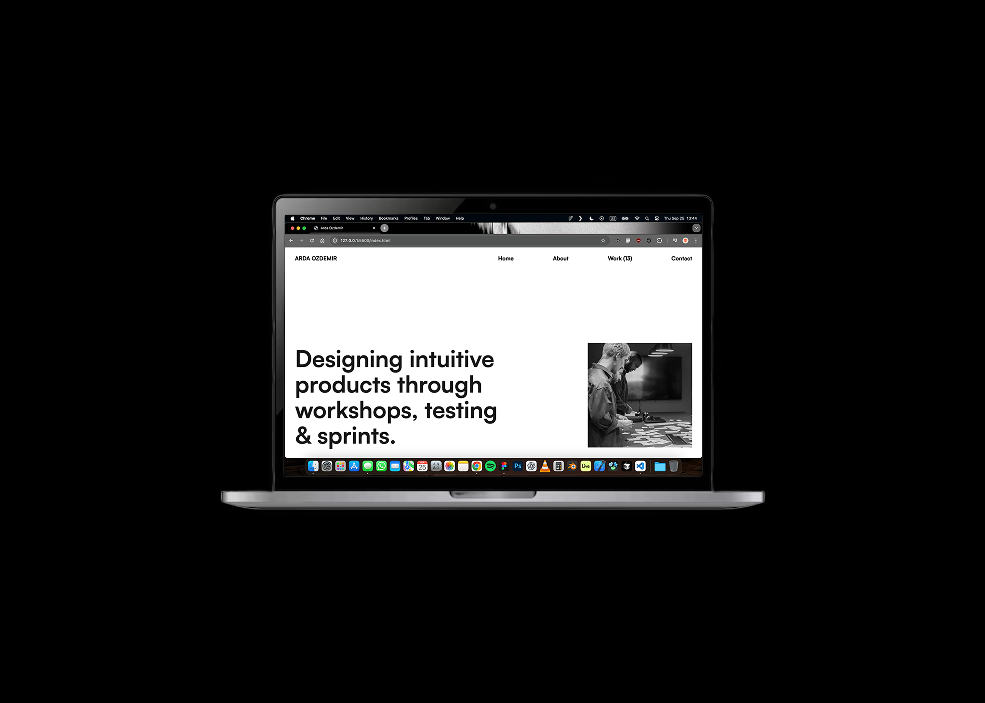
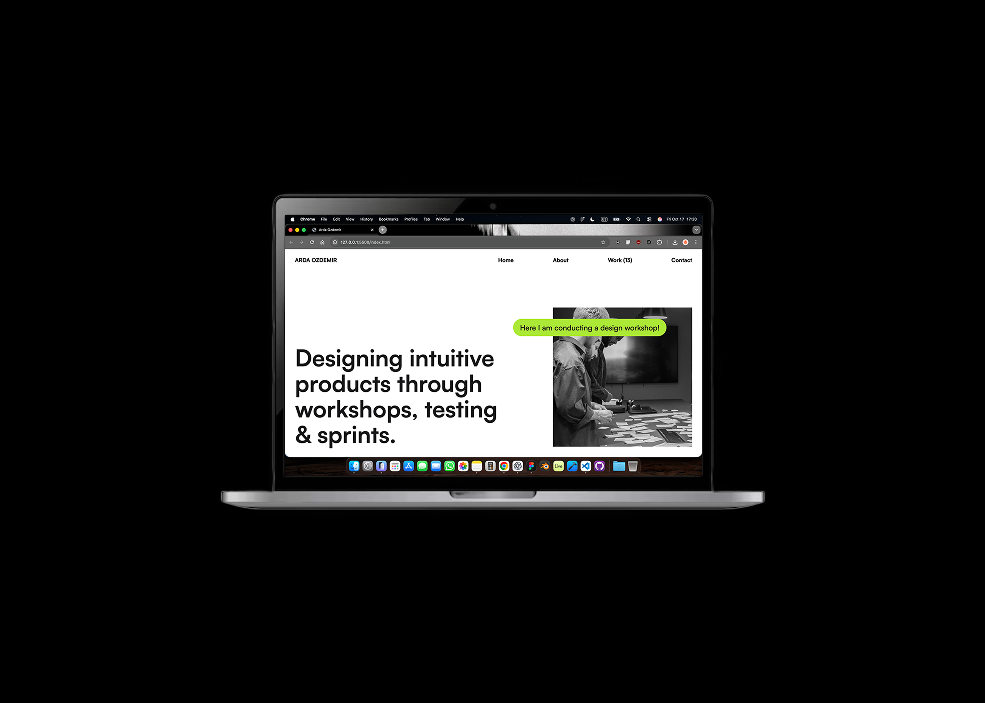
NametagUpdate

diff --git a/style.css b/style.css
@@ -171,11 +171,11 @@ header {
   top: 0;
   left: 0;
   transform: translate(-50%, -50%);
-  background: #8b8b8b;
-  color: #fff;
-  padding: 6px 12px;
-  border-radius: 6px;
-  font-size: 1rem;
+  background: #abe936;
+  color: #171618;
+  padding: 0.8rem 1.5rem;
+  border-radius: 9999px;
+  font-size: 1.6rem;
   font-weight: 500;
   pointer-events: none; 
   opacity: 0;
